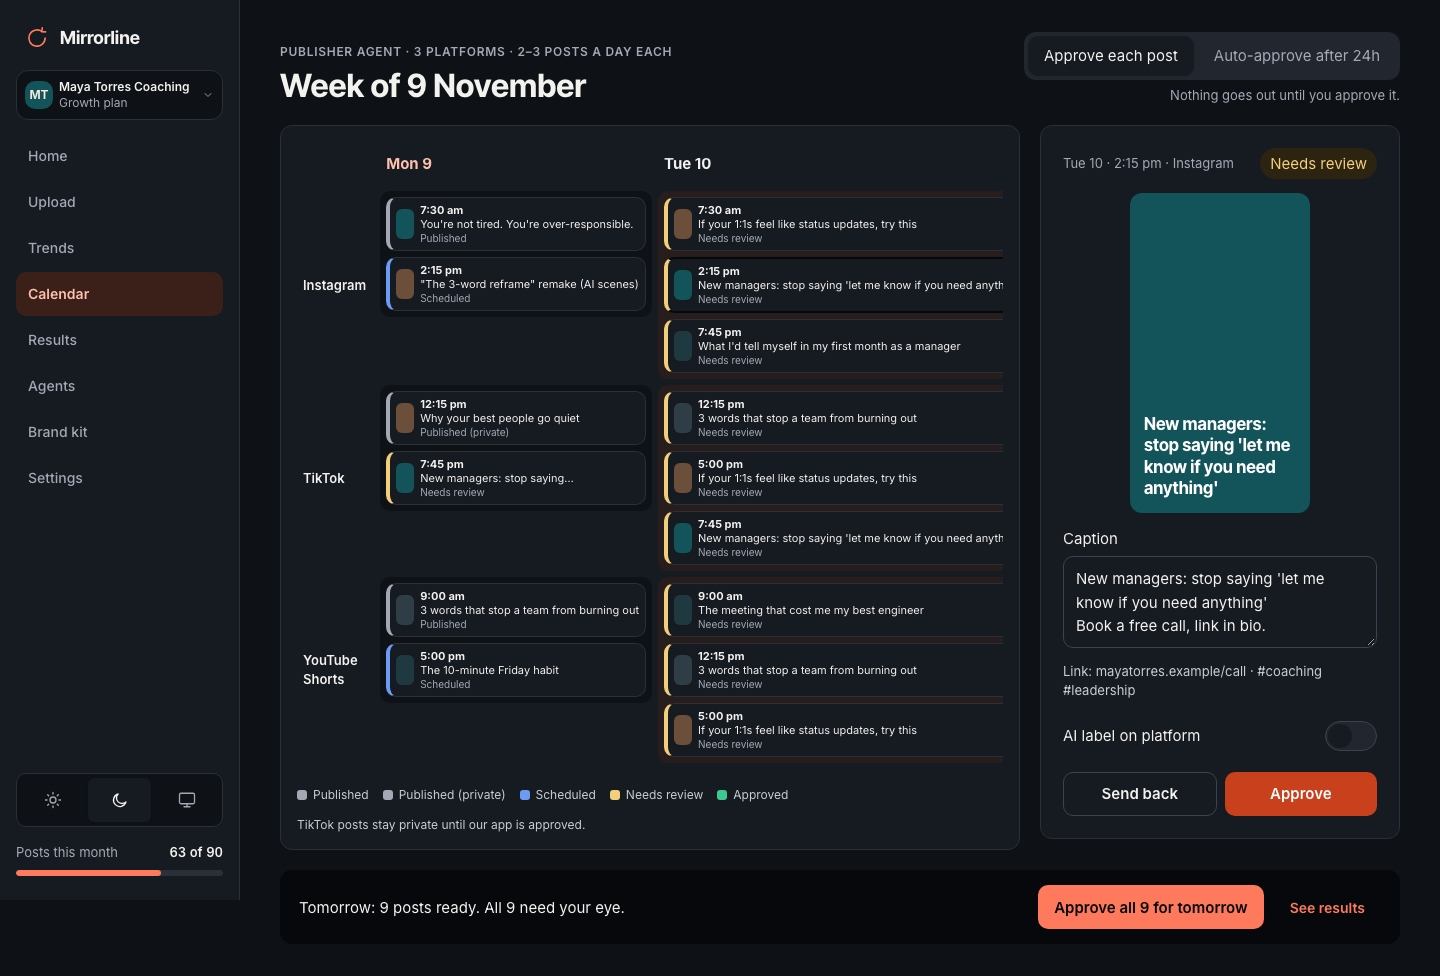
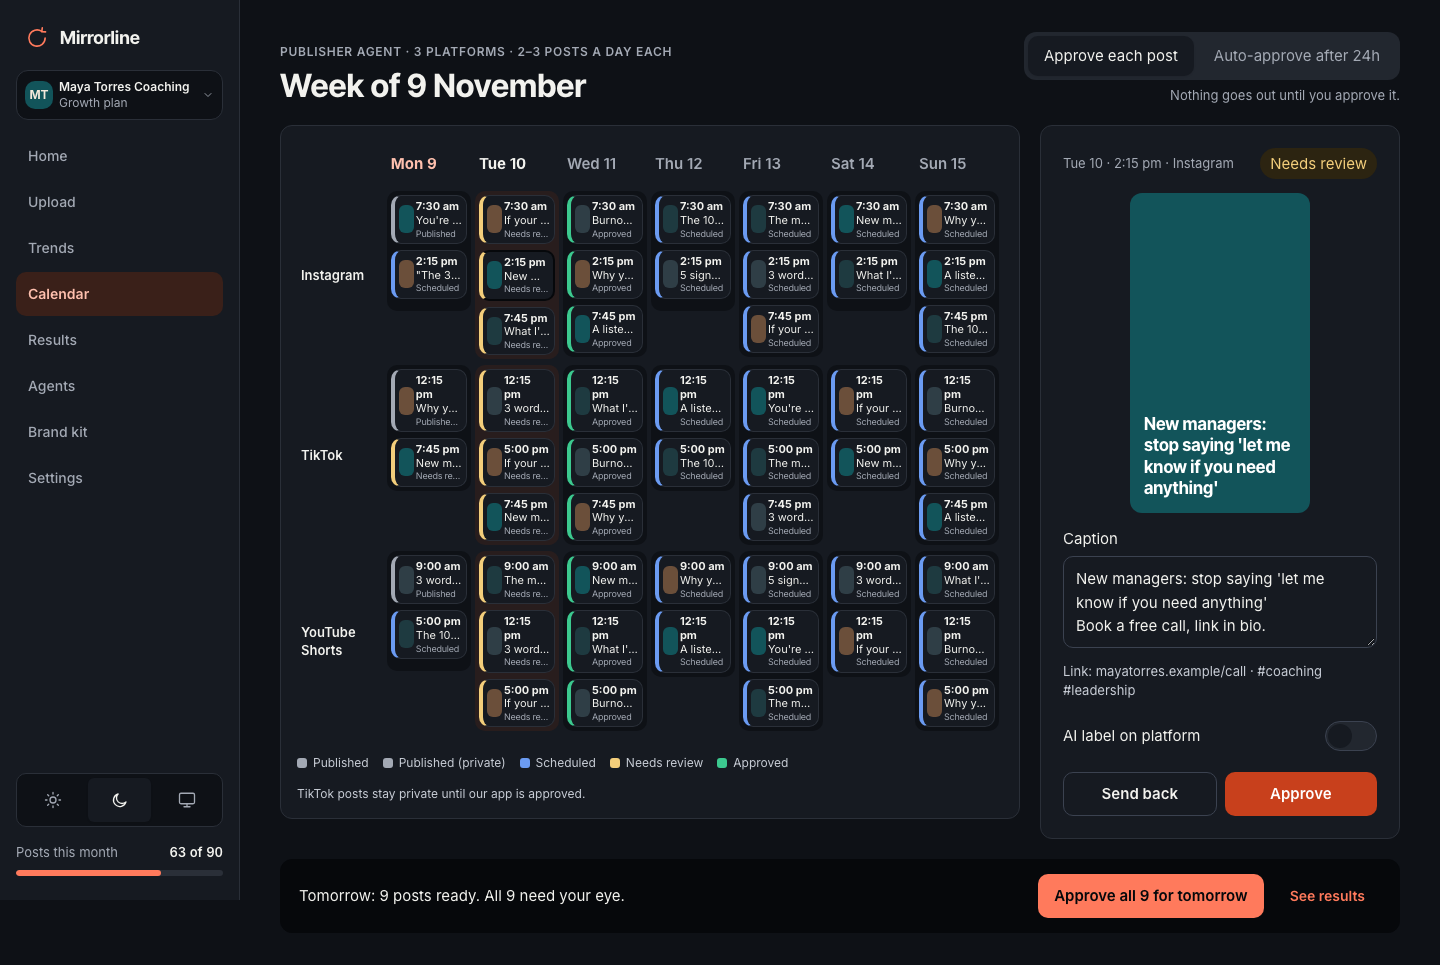
fix(calendar): fit all seven days at 1440px
table-layout:auto sized each column to its max-content, so the chip's
truncate plus white-space:nowrap made every day column as wide as its
longest full title — min-w-0 cannot help an auto-layout cell. Switched
to table-fixed with declared widths, which the chips truncate into.

Table width 2418px -> 706px; day columns 272-380px -> 78px each. All
seven days now sit beside the drawer, as in the reference mockup.

Kept intact: the full title in the chip aria-label, the status word for
colour-blind users, the 4px status edge, real table semantics with
scoped headers, the sticky platform column, and card-not-page scrolling
at 390px.

diff --git a/apps/web/components/calendar/post-chip.tsx b/apps/web/components/calendar/post-chip.tsx
@@ -73,7 +73,7 @@ export function PostChip({ post, status, dayLabel, isSelected, onSelect }: PostC
       // it for assistive tech, and the tooltip never becomes the chip's name.
       title={post.title}
       className={cn(
-        'flex min-h-11 w-full min-w-0 items-center gap-1 rounded-md bg-surface p-1 text-left',
+        'flex min-h-11 w-full min-w-0 items-center gap-0.5 rounded-md bg-surface p-1 text-left',
         'transition-colors duration-150 hover:bg-surface-subtle',
         isSelected ? 'border-2 border-ink' : 'border border-border',
         'border-l-4',
@@ -84,7 +84,7 @@ export function PostChip({ post, status, dayLabel, isSelected, onSelect }: PostC
           plain swatch rather than a theme token. */}
       <span
         aria-hidden="true"
-        className="h-[30px] w-[18px] shrink-0 rounded-sm"
+        className="h-[28px] w-[15px] shrink-0 rounded-sm"
         style={{ backgroundColor: post.thumbnailColor }}
       />
       <span aria-hidden="true" className="flex min-w-0 flex-1 flex-col">
@@ -95,8 +95,10 @@ export function PostChip({ post, status, dayLabel, isSelected, onSelect }: PostC
           {post.title}
         </span>
         {/* SC 1.4.1: the status is a word on the chip, not only a coloured
-            edge, so it survives both colour blindness and a greyscale print. */}
-        <span className="overflow-hidden text-ellipsis whitespace-nowrap text-[10px] font-normal leading-tight text-text-muted">
+            edge, so it survives both colour blindness and a greyscale print.
+            A step smaller than the title so the narrow column still shows the
+            word itself rather than its first syllable. */}
+        <span className="overflow-hidden text-ellipsis whitespace-nowrap text-[9px] font-normal leading-tight tracking-tight text-text-muted">
           {word}
         </span>
       </span>
